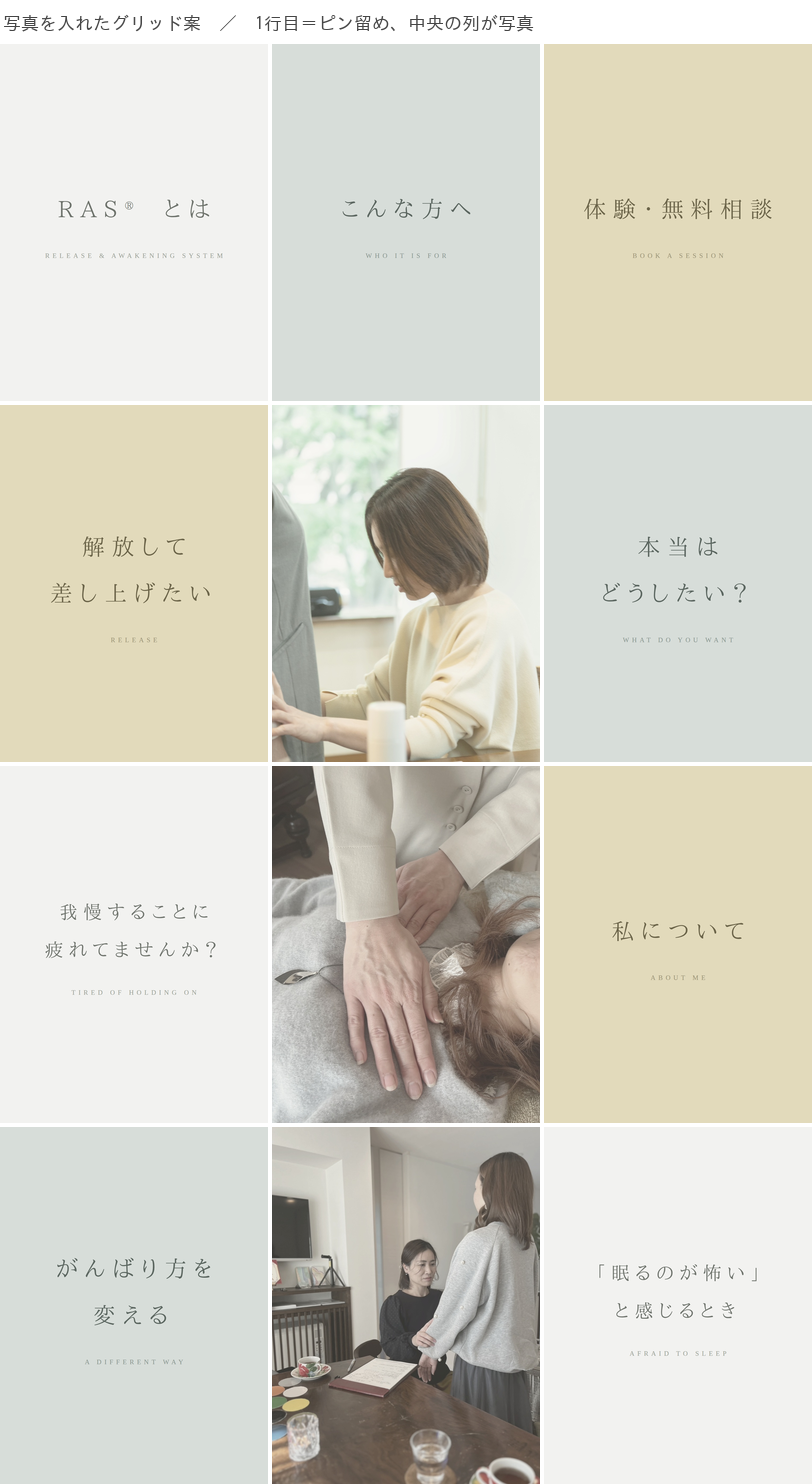
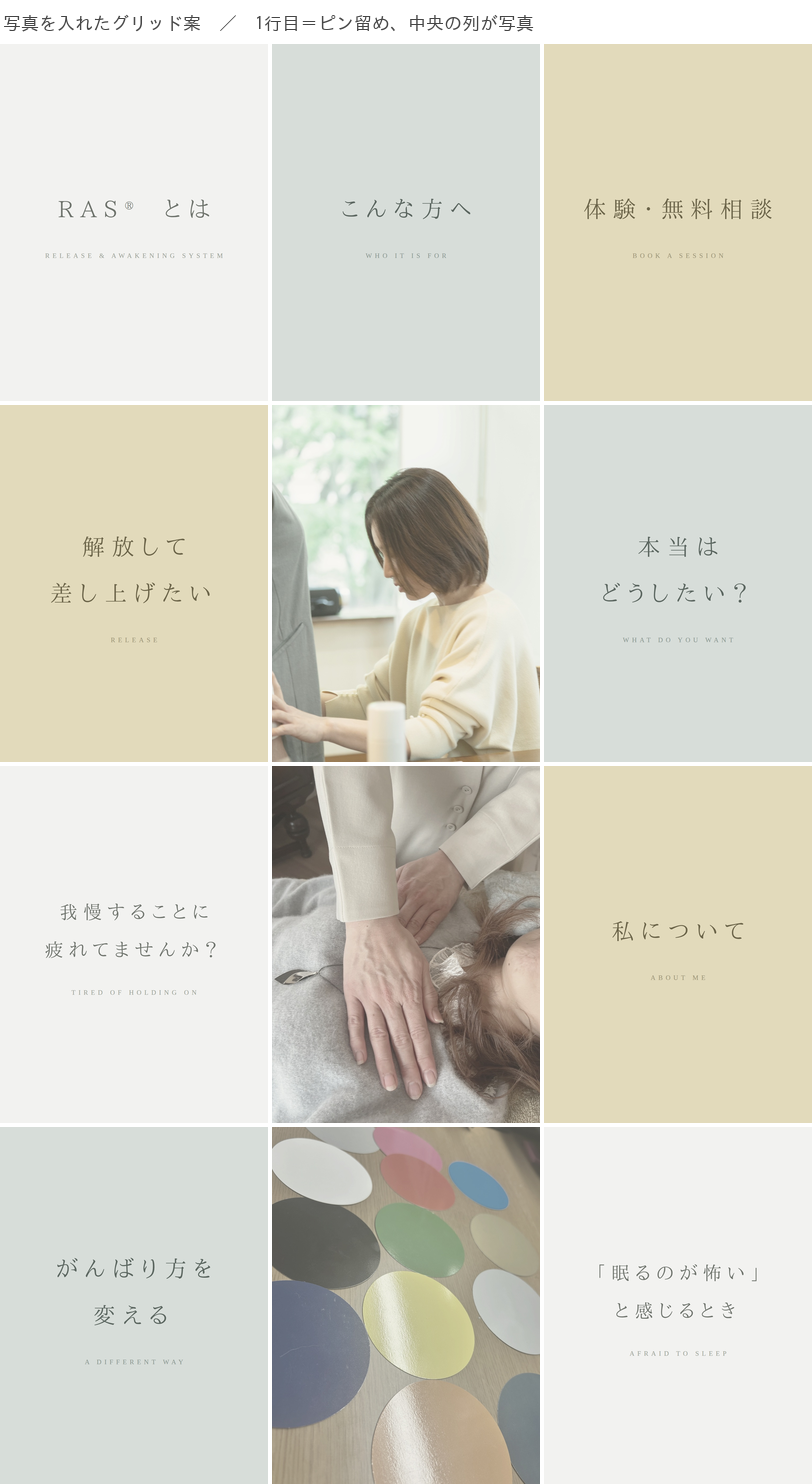
Swap the room photo for the colour boards in the grid
The boards now take the bottom-centre grid slot and the room photo
moves into the 01 carousel. The boards read lighter than the room
shot at tile size and are the only graphic image in the column, so
they land as a deliberate accent rather than clutter.

Caption for that slot is rewritten around choosing a colour and
what hesitating over that choice says about how someone makes small
decisions. How the boards are actually used is guessed at, and the
caption carries a note saying so.

Claude-Session: https://claude.ai/code/session_01385YPjVszoEuCvrufnssN2

Changed region(s): [[0.3079, 0.7439, 0.6773, 1.0]]

diff --git a/posts/profile-pin/natural/captions.md b/posts/profile-pin/natural/captions.md
@@ -20,7 +20,7 @@
 | --- | --- | --- |
 | 写真A | セッション中（腕に触れているところ） | `photos/session_a.jpg` |
 | 写真B | 手をあてているところ | `photos/hands.jpg` |
-| 写真C | セッションの部屋 | `photos/session_b.jpg` |
+| 写真C | セッションで使う色の板 | `photos/tools.jpg` |
 
 ## 投稿の順番（重要）
 
@@ -34,7 +34,7 @@
 
 ```
 1.  07 「眠るのが怖い」と感じるとき
-2.  写真C　セッションの部屋
+2.  写真C　色の板
 3.  08 がんばり方を変える
 4.  09 私について
 5.  写真B　手をあてているところ
@@ -63,7 +63,7 @@
 | 順番 | 内容 | ファイル |
 | --- | --- | --- |
 | 1枚目 | 文字タイル「RAS® とは」※グリッドに出るのはこちら | `pin_01.png` |
-| 2枚目 | セッションで使う色の板 | `photos/tools.jpg` |
+| 2枚目 | セッションの部屋 | `photos/session_b.jpg` |
 
 **1枚目に文字タイルを置くこと**が肝心です。
 カルーセルはグリッドに1枚目だけが出るので、
@@ -489,31 +489,43 @@ Release & Awakening System のファシリテーター養成課程を、
 
 ---
 
-## 写真C　セッションの部屋
+## 写真C　色の板
 
-セッションをしている場所です。
+セッションで使う道具のひとつです。
 
-宮城県大郷町。
-特別な設備のある部屋ではありません。
-ふつうの、静かな部屋です。
+色の板。
+見た目は、ただのカードです。
 
-お茶を出して、向かい合って座るところから始まります。
+これを前にして「どれが気になりますか」とお聞きすると、
+固まってしまう方が、けっこういらっしゃいます。
 
-写真に写っている色の板も、RAS®で使う道具のひとつです。
-この話は、また別の投稿で。
+　どれを選ぶのが正解なんだろう
+　変なのを選んだら、どう思われるだろう
+　……特に、ないです
 
-実施方法は3つから選べます。
+好きな色をひとつ選ぶ。
+それだけのことに、正解を探してしまう。
 
-　・オンライン（zoom）
-　・ご自宅へうかがう
-　・この部屋へお越しいただく
+これは、色の話ではありません。
+ふだんの選び方が、そのまま出ているだけです。
 
-「人を家に上げるのは気をつかう」という方はオンラインを、
-「出かけるのがおっくう」という方には、こちらからうかがうこともできます。
+何を食べたいか。
+どこに座りたいか。
+今日、何をして過ごしたいか。
 
-どれを選んでも、やることは変わりません。
+小さな選択を人に譲りつづけていると、
+「自分がどうしたいか」を出す力は、少しずつ鈍っていきます。
+使わない筋肉が落ちていくのと、同じです。
+
+道具そのものに力があるわけではありません。
+ご自身の反応を、見えるようにするためのものです。
+
+まずは、色をひとつ選ぶところから。
 
 体験・無料相談は、プロフィールのリンクから。
+
+> 色の板の使い方は、こちらの推測で書いています。
+> 実際と違う場合は教えてください。書き直します。
 
 
 ## ハッシュタグ
@@ -543,7 +555,7 @@ Release & Awakening System のファシリテーター養成課程を、
 | 09 | #自己紹介 #プロフィール #ファシリテーター |
 | 写真A | #セッション風景 #キネシオロジー #筋反射 |
 | 写真B | #話さなくていい #ただ待つ #安心できる場所 |
-| 写真C | #宮城県大郷町 #サロン #オンラインセッション |
+| 写真C | #色で選ぶ #小さな選択 #自分の好み |
 
 ---
 
